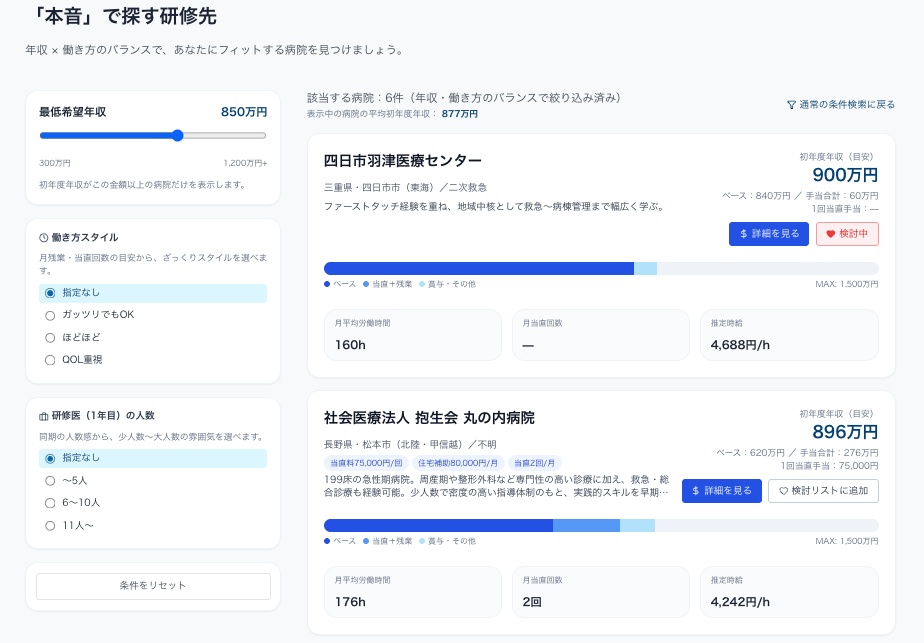
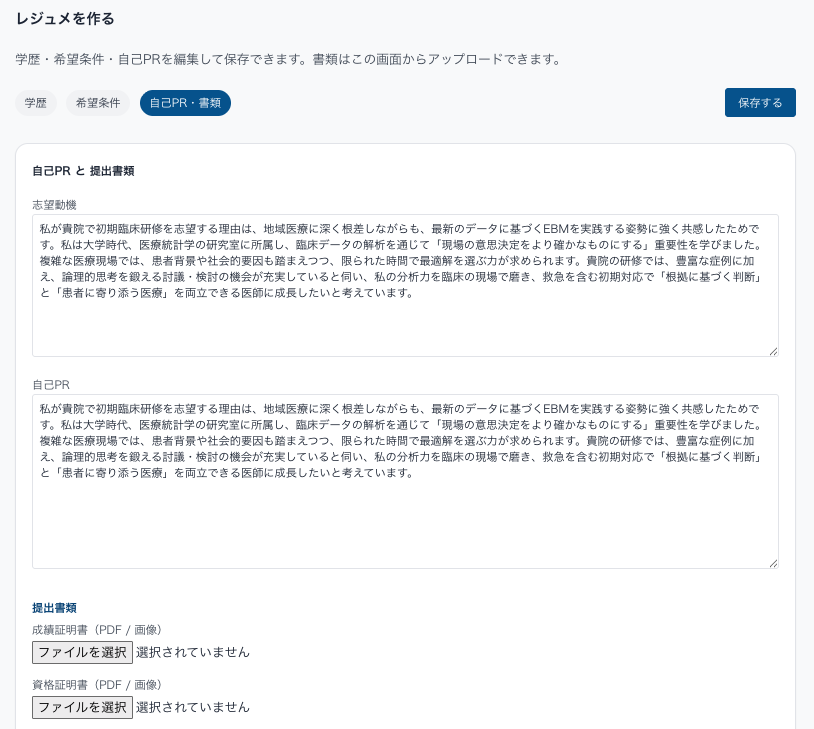
Update home layout for mobile

diff --git a/app/lp1/page.tsx b/app/lp1/page.tsx
@@ -142,13 +142,13 @@ export default function Lp1Page() {
     </div>
 
     {/* 下部に押し下げる（これで確実に下に行く） */}
-    <div className="mt-auto pb-8 md:pb-12 flex justify-center">
+    <div className="mt-auto pb-6 md:pb-12 flex justify-center">
       <p className="max-w-[92%] md:max-w-3xl text-center font-extrabold leading-relaxed text-orange-200 drop-shadow
                     text-base md:text-xl">
-        待遇と経験両方重視したいのにあまりにも時間と手間がかかる。
+        待遇と経験両方重視したいのに時間と手間がかかりぎる。
         <br />
         <span className="text-orange-300">
-          妥協して選んだ研修病院で後悔するケースも。
+          妥協して選んだ研修先で後悔することも。
         </span>
       </p>
     </div>
@@ -162,7 +162,7 @@ export default function Lp1Page() {
         <div className="mx-auto max-w-6xl px-4 pt-14 pb-10 md:pb-14">
           {/* 目立たせたい文章をメイン見出しに */}
           <h2 className="text-2xl font-extrabold text-slate-900 md:text-4xl">
-            Resimatchなら、検索・応募・スカウトまでワンストップで完結。
+            Resimatchなら、検索・比較・応募までワンストップで完結。
           </h2>
 
           {/* サブは控えめ */}
@@ -272,7 +272,7 @@ export default function Lp1Page() {
           <div className="flex min-h-[70vh] items-start pt-8 md:min-h-0 md:items-center md:pt-0">
             <div className="max-w-3xl text-white">
               <p className="text-sm font-semibold text-white/90 md:text-base">
-                学生最後の一年、今すぐ理想の研修先のために行動したい。
+                学生最後の一年、理想の研修先のために行動したい。
               </p>
               <h2 className="mt-2 text-2xl font-extrabold leading-tight md:text-4xl">
                 Resimatchで頑張らずに
